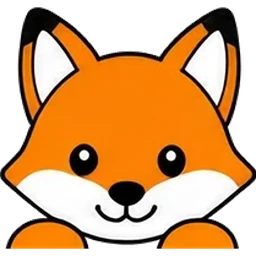
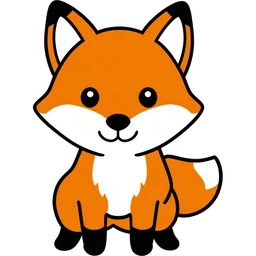
feat: 隊伍圖示改用完整全身版（重新生成，唔再裁切）
- 8 隻動物以原橫幅裁圖做參考圖，用 sensenova-u1.5-lite /images/edits 重畫全身：
  保留同一套粗黑描邊／平塗／腮紅，補回身體四肢；鯨魚海豚另生成水平漂浮＋尾鰭版（唔要腳）
- 去背（四邊 flood fill）＋清右下角淺灰浮水印＋置中補方 → art/team/*.webp 256px
- 修 img 尺寸：HTML width="1em" 對 <img> 無效（會變 1px），改用全域
  .mark-img{width:1em;height:1em;object-fit:contain}

diff --git a/index.html b/index.html
@@ -187,6 +187,7 @@
     box-shadow:inset 0 0 0 1px var(--sep)}
   .animal-opt.taken .opt-mark,.animal-opt.taken .opt-name{opacity:.42}
   .animal-opt .opt-taken{font-size:11px; font-weight:600; color:var(--ink-2); line-height:1.2}
+  .mark-img{display:block; width:1em; height:1em; object-fit:contain; margin:0 auto}
   .animal-opt .opt-mark{font-size:26px; line-height:1; color:var(--tc)}
   .animal-opt .opt-mark svg,.animal-opt .opt-mark .mark-img{display:block; width:1em; height:1em}
   .animal-opt .opt-name{font-size:13px; font-weight:600; color:var(--ink)}
@@ -847,7 +848,7 @@ let lines = [];                                  // 題目：一行一題
 /* 8 個動物圖示：Twemoji（CC-BY 4.0, github.com/jdecked/twemoji）— 內嵌 SVG，唔靠字型 */
 const TEAM_IDS = ["turtle","fox","whale","octopus","bee","flamingo","dolphin","bear"];
 const ICONS = Object.fromEntries(TEAM_IDS.map(id =>
-  [id, `<img class="mark-img" src="/art/team/${id}.webp" alt="" width="1em" height="1em" decoding="async">`]));
+  [id, `<img class="mark-img" src="/art/team/${id}.webp" alt="" decoding="async">`]));
 
 /* 隊伍動物：名稱、圖示、顏色三者綁定；改動物＝改色，但唔會覆蓋自己改過嘅隊名 */
 const ANIMALS = [
